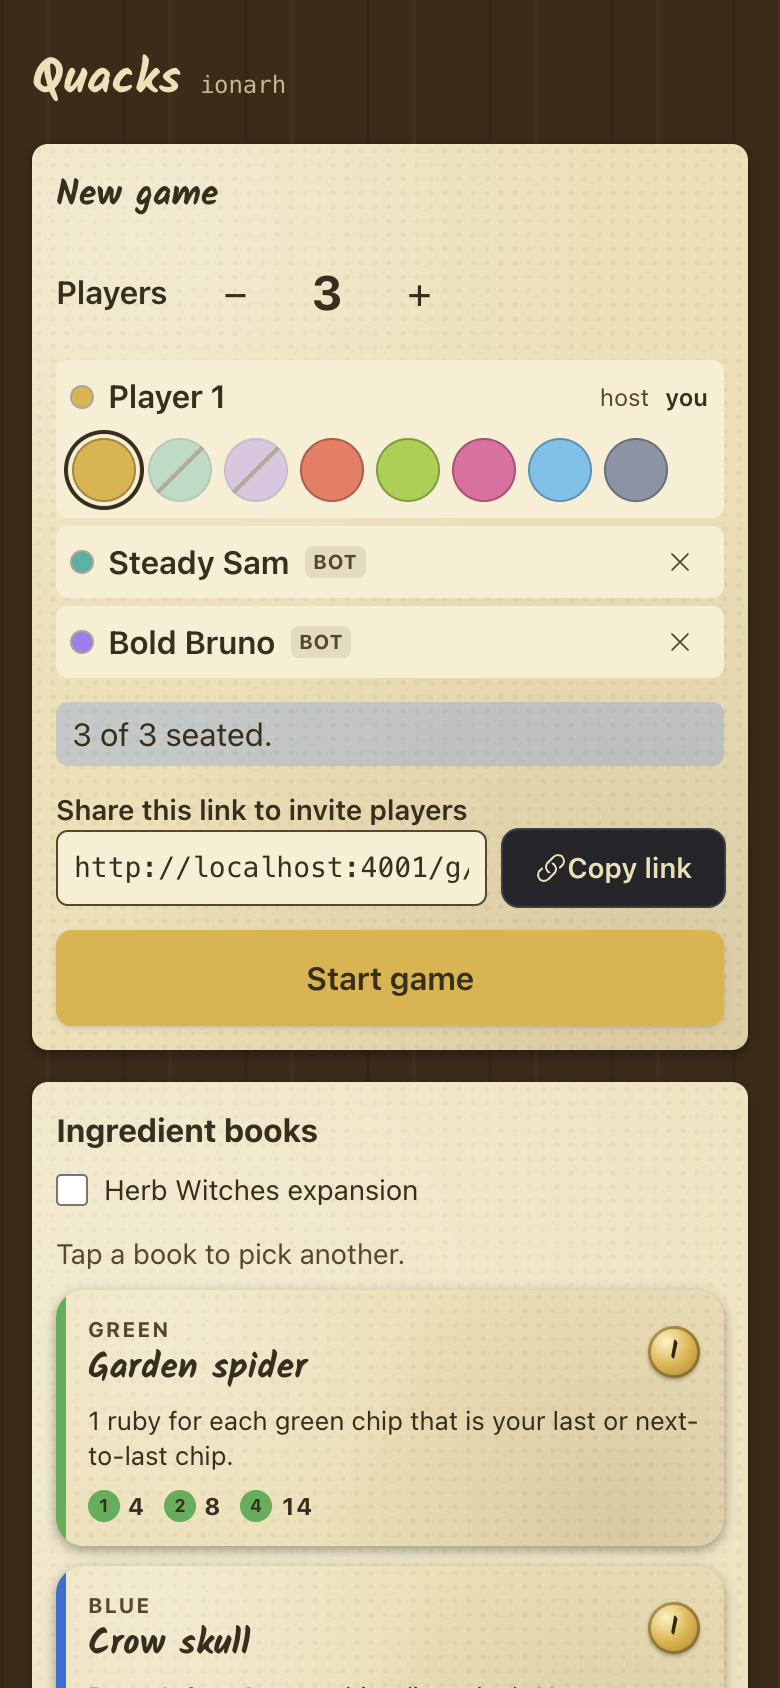
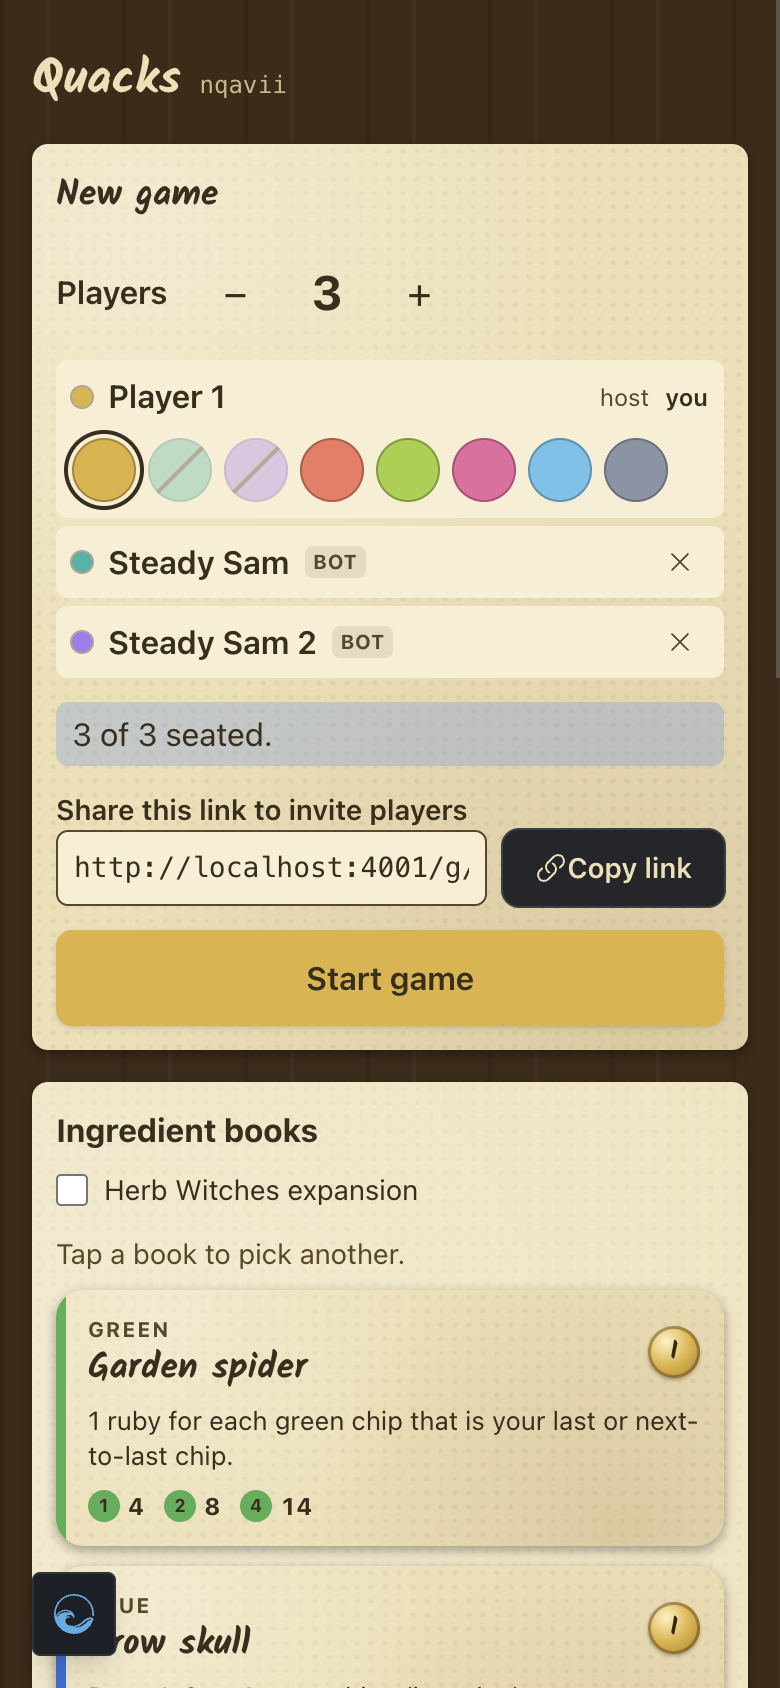
feat: one bot (Steady Sam) and lockstep brewing
"+ Add bot" puts Steady Sam in the seat at once; more bots are
"Steady Sam 2", "Steady Sam 3", ... The other profiles stay for the sim.

Lockstep: in the potions phase of rounds 1-8 a bot draws only while it
has fewer draws this round than the human seat with the most. When no
human brews, the bots finish. Round 9 keeps its stir lockstep.

Claude-Session: https://claude.ai/code/session_01SKWBrq9TqRibEGiQzmvrBU

diff --git a/assets/css/app.css b/assets/css/app.css
@@ -376,27 +376,6 @@ html:has([data-layout="full"]) {
   }
 }
 
-/* The bot profiles under an empty seat row: they drop in a little. */
-.bot-choice {
-  transition:
-    opacity 180ms var(--ease-out),
-    translate 180ms var(--ease-out);
-}
-
-@starting-style {
-  .bot-choice {
-    opacity: 0;
-  }
-}
-
-@media (prefers-reduced-motion: no-preference) {
-  @starting-style {
-    .bot-choice {
-      translate: 0 -0.25rem;
-    }
-  }
-}
-
 /* Reduced motion: a short fade instead of a slide or a zoom. */
 @media (prefers-reduced-motion: reduce) {
   .sheet {

diff --git a/docs/CONTEXT.md b/docs/CONTEXT.md
@@ -38,7 +38,7 @@ Terms used in code, tests and docs. Source: `docs/research/rulebook.md`.
 | **beside the pot** | Red Set 2: `Quacks.Player.aside`, red chips drawn but not placed. They are not in the bag and stay there across rounds. After stopping (or the explosion choice) the player decides each one in `:red_choice`; the evaluation waits for every player. A placed red moves only its value. Red Set 6: a drawn red puts one more chip from the bag in `aside`. While brewing the player may place it any time with `{:red, {:place, chip}}` (a normal draw, with its action); after stopping or exploding it must be placed (only `:place` in `:red_choice`): it moves its value, no action (⚠), and a white one can still explode the pot. |
 | **starter chips** | Green Set 5: `Quacks.Player.starters`, pot chips chosen in step B (`{:chip, {:starter, chip}}`, worth at most the green) to be the first chips of the next round. `:draw` takes them out of the bag first, in the order chosen (⚠ "any order" = the order of choosing), with their actions. A starter no longer in the bag is skipped. |
 | **supply** | The chips in the box per colour and value (`Quacks.Rules.Chips.supply/0`, `game.supply`), shared by all players. House rule `supply`: `:infinite` (default) never runs out and `game.supply` is never counted down (it stays the box); `:limited` counts down: every starting bag, bought chips, the orange die face and the round-6 white chips come out of it, and a kind with 0 left is not buyable. `Game.in_supply?/3`, `take_supply/2` and `return_supply/2` hide the difference. Yellow is buyable from round 2, purple from round 3. With `:limited`, a count never goes below 0: 5+ starting bags empty the white 2s and 3s. |
-| **bot** | A seat played by `Quacks.AI` (`docs/research/ai-opponents.md`). `Quacks.AI.decide(game, seat, profile, rng)` returns one legal action and the bot's next rng, or `:none` (no action, or `:stopped`: bots never resume). A **profile** (`Quacks.AI.Profile.get/1`: `:cautious` "Careful Clara", `:balanced` "Steady Sam", `:reckless` "Bold Bruno") is data: bust thresholds per round, explosion choice, shop weights, ruby plan. The bot rng (`Quacks.AI.new_rng/2`) is separate from the game `rng`, which a bot never reads. `mix quacks.sim` plays bot games (`Quacks.AI.Sim`). |
+| **bot** | A seat played by `Quacks.AI` (`docs/research/ai-opponents.md`). `Quacks.AI.decide(game, seat, profile, rng)` returns one legal action and the bot's next rng, or `:none` (no action, or `:stopped`: bots never resume). A **profile** (`Quacks.AI.Profile.get/1`: `:cautious` "Careful Clara", `:balanced` "Steady Sam", `:reckless` "Bold Bruno") is data: bust thresholds per round, explosion choice, shop weights, ruby plan. The bot rng (`Quacks.AI.new_rng/2`) is separate from the game `rng`, which a bot never reads. `mix quacks.sim` plays bot games (`Quacks.AI.Sim`). At the table every bot is Steady Sam (`:balanced`); the other profiles are for the sim only. **Lockstep**: in the potions phase of rounds 1–8 a bot draws only while it has fewer draws this round than the human seat with the most; when no human brews, the bots finish. |
 | **blue offer** | The extra chips a blue chip draws (`pending` on the player). The player places at most one as the next chip; the rest go back in the bag. |
 | **black rule** | Rulebook §4. 2 players: as many black chips as the opponent (also 0–0) → droplet +1; more → droplet +1 and 1 ruby. 3-4 players: more than one neighbour (adjacent seat) → droplet +1; more than both → droplet +1 and 1 ruby. ⚠ 5 to 8 players use the 3-4 side. Black Set 5: a black chip bought (or taken from a card) goes into the bag of the player on the left (the next seat; solo: back to the supply) and the buyer's droplet moves 1; step B: 1 ruby per black chip in the left pot and per black on my last two positions. Black Set 6: the owner(s) of the furthest black chip at the table move the droplet 1, of the second furthest take 1 ruby (⚠ ranked by distinct space; a tie shares the bonus); solo ranks your own chips. |
 | **fortune card** | A Fortune Teller card (rulebook §5, ⚠ fan transcription). `Quacks.Rules.Fortune` holds the 24 cards (`:b1`–`:b11` blue, `:p1`–`:p13` purple); `Quacks.Game.Fortune` holds their rules. `Game.new(rules: %{fortune: false})` plays without cards (default `true`; `fortune: false` at the top level is an old alias). The deck (`fortune_deck`, ids) is shuffled at `new/1` from a jump of the game's `rng`, so a seed draws the same chips with or without cards. Solo decks leave out P4, P5, P8 and B2; solo skips P7 and P9 when they come up. `fortune_card` is the card of the current round. |
